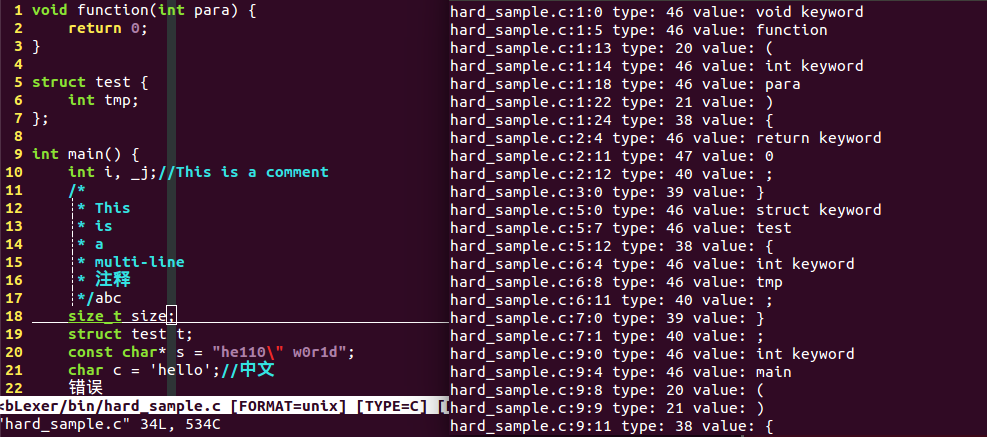
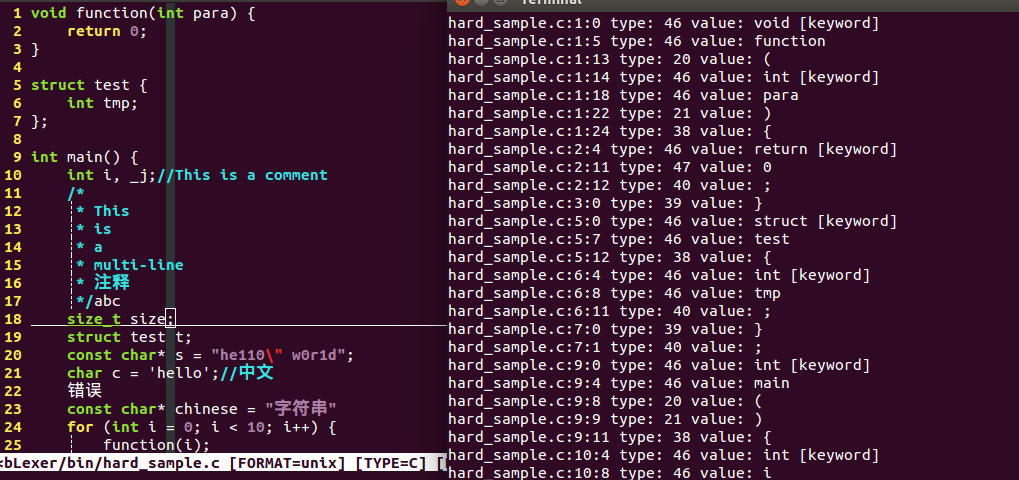
pic update

Changed region(s): [[0.0, 0.0, 1.0, 1.0]]

diff --git a/src/util.cpp b/src/util.cpp
@@ -59,7 +59,7 @@ void dump_token_stream() {
 		if (keyword.end() == it)
 			std::cout << source_file.filename << c << std::endl;
 		else
-			std::cout << source_file.filename << c << " keyword" << std::endl;
+			std::cout << source_file.filename << c << " [keyword]" << std::endl;
 	}
 #endif
 }
